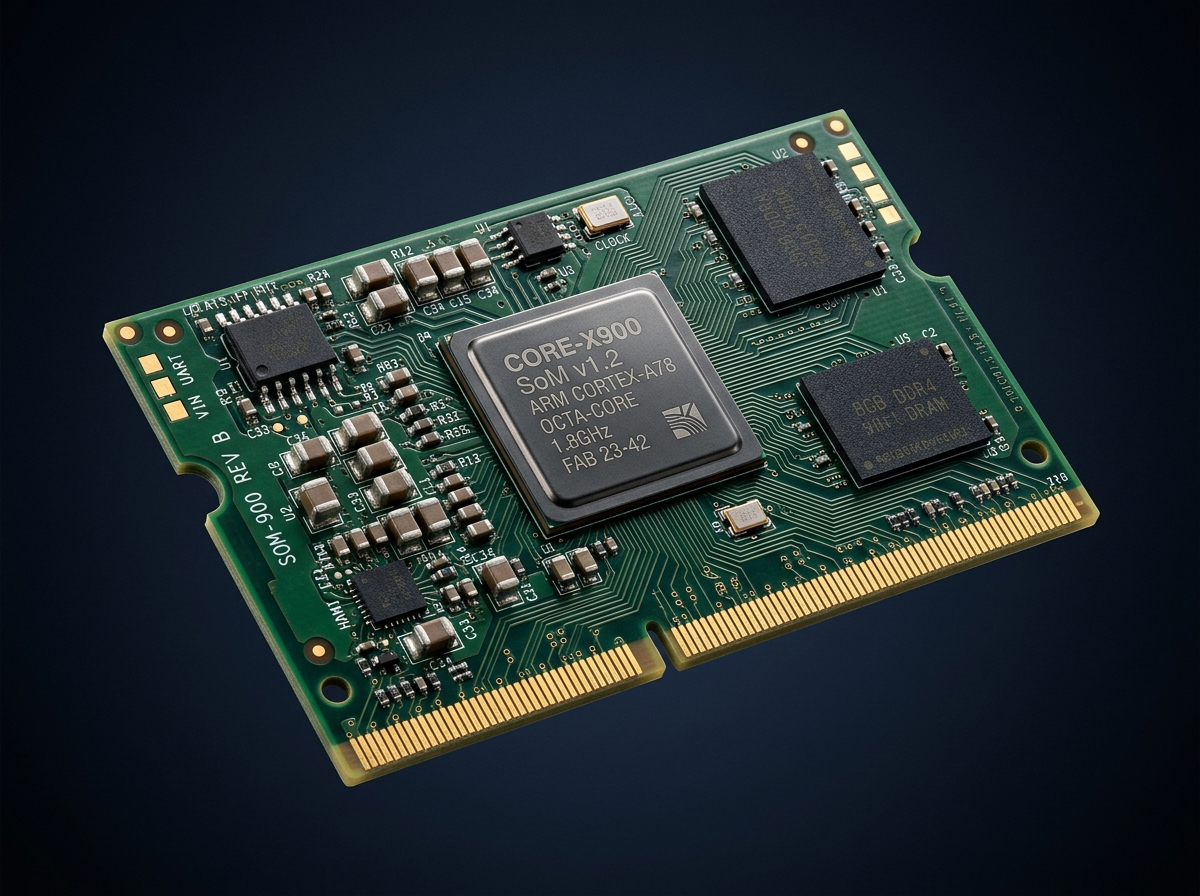
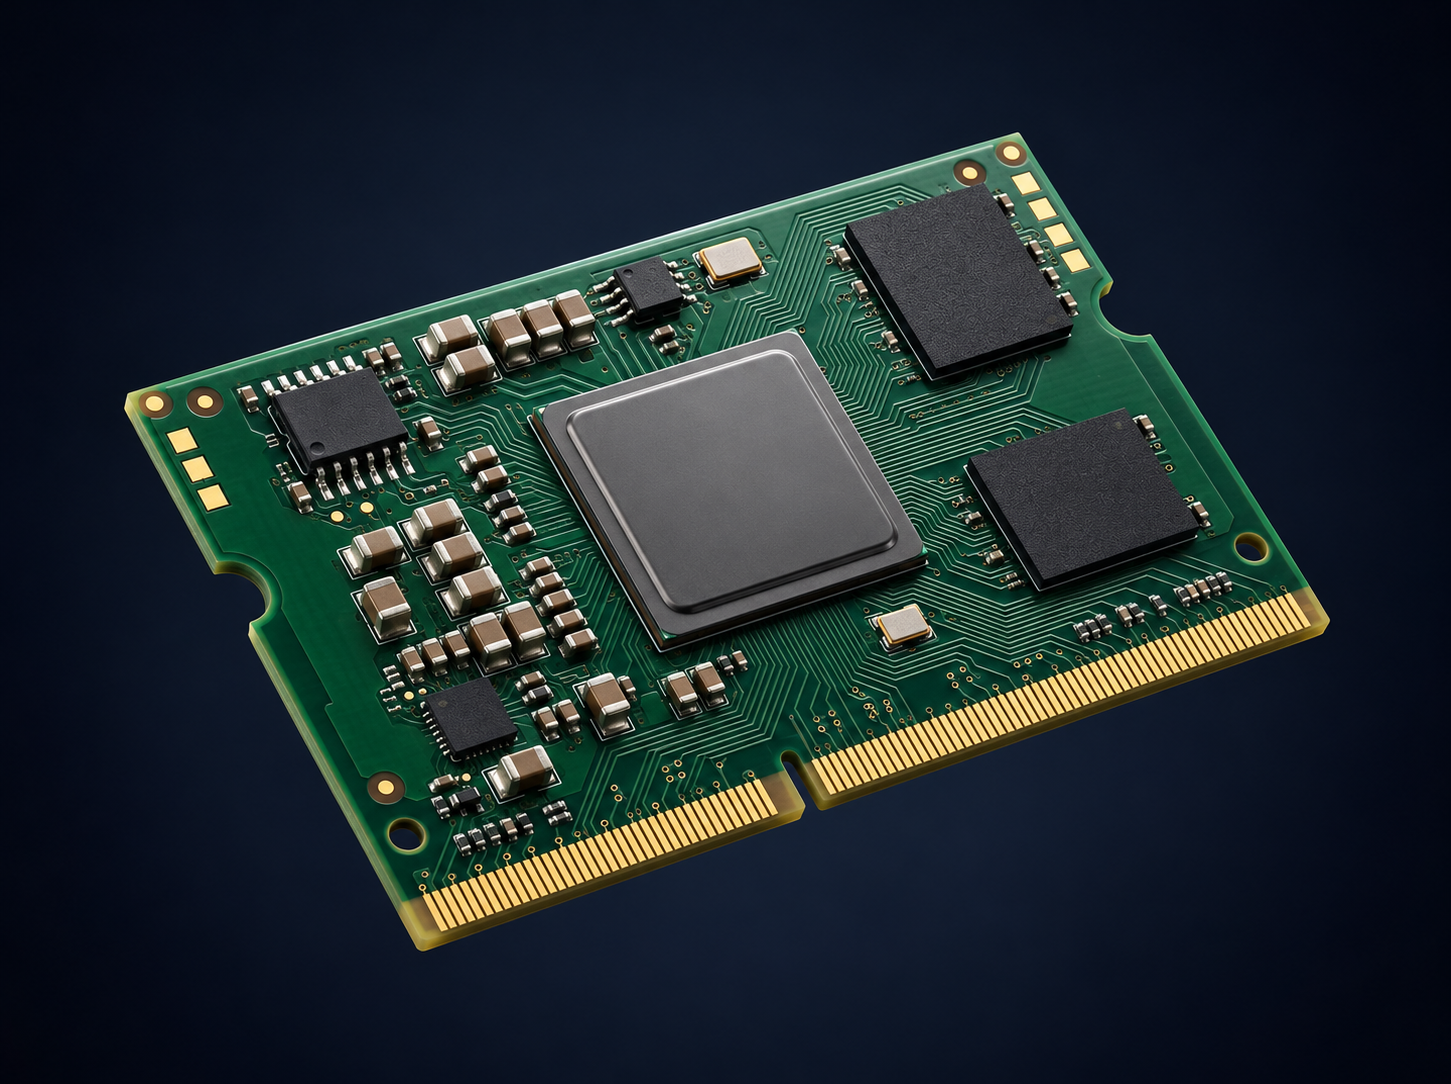
feat: set hero-som-module image for Our Engineering Capabilities slide

Changed region(s): [[0.0925, 0.125, 0.925, 0.875]]

diff --git a/src/components/developers/Developers.jsx b/src/components/developers/Developers.jsx
@@ -114,10 +114,6 @@ export default function Developers() {
       <div id="industries-we-serve" className="sr-only" />
       <div id="developers" className="sr-only" />
 
-      {/* Subtle Ambient Background Lighting Glow */}
-      <div className="absolute top-1/3 left-1/4 w-[600px] h-[500px] bg-gradient-to-tr from-[#3285FF]/10 via-[#2DD4F0]/10 to-transparent rounded-full blur-[140px] pointer-events-none -z-10" />
-      <div className="absolute bottom-1/3 right-1/4 w-[500px] h-[400px] bg-gradient-to-bl from-[#2DD4F0]/10 via-[#3285FF]/10 to-transparent rounded-full blur-[140px] pointer-events-none -z-10" />
-
       <div className="section-container relative">
 
         {/* Section Heading */}

diff --git a/src/components/cta/FinalCTA.jsx b/src/components/cta/FinalCTA.jsx
@@ -116,10 +116,6 @@ export default function FinalCTA() {
       <div id="ecosystem-partners" className="sr-only" />
       <div id="technical-support" className="sr-only" />
 
-      {/* Ambient Background Lighting Glow */}
-      <div className="absolute top-1/3 left-1/4 w-[600px] h-[500px] bg-gradient-to-tr from-[#3285FF]/10 via-[#2DD4F0]/10 to-transparent rounded-full blur-[140px] pointer-events-none -z-10" />
-      <div className="absolute bottom-1/3 right-1/4 w-[500px] h-[400px] bg-gradient-to-bl from-[#2DD4F0]/10 via-[#3285FF]/10 to-transparent rounded-full blur-[140px] pointer-events-none -z-10" />
-
       <div className="section-container relative">
 
         {/* Section Heading */}

diff --git a/src/components/hero/Hero.jsx b/src/components/hero/Hero.jsx
@@ -52,8 +52,8 @@ export const heroSlides = [
     description: 'From hardware design and embedded Linux development to software, camera integration, and edge AI, we provide engineering expertise to develop complete embedded products.',
     ctaText: 'Talk to Engineers',
     ctaHref: '#contact',
-    image: '/images/hero-som-module.jpg',
-    fallbackImage: '/images/aiegx-hardware-som-hd.jpg',
+    image: '/images/hero-som-module.png',
+    fallbackImage: '/images/hero-som-module.png',
     alt: 'AIEGX Embedded Engineering Capabilities'
   }
 ];
